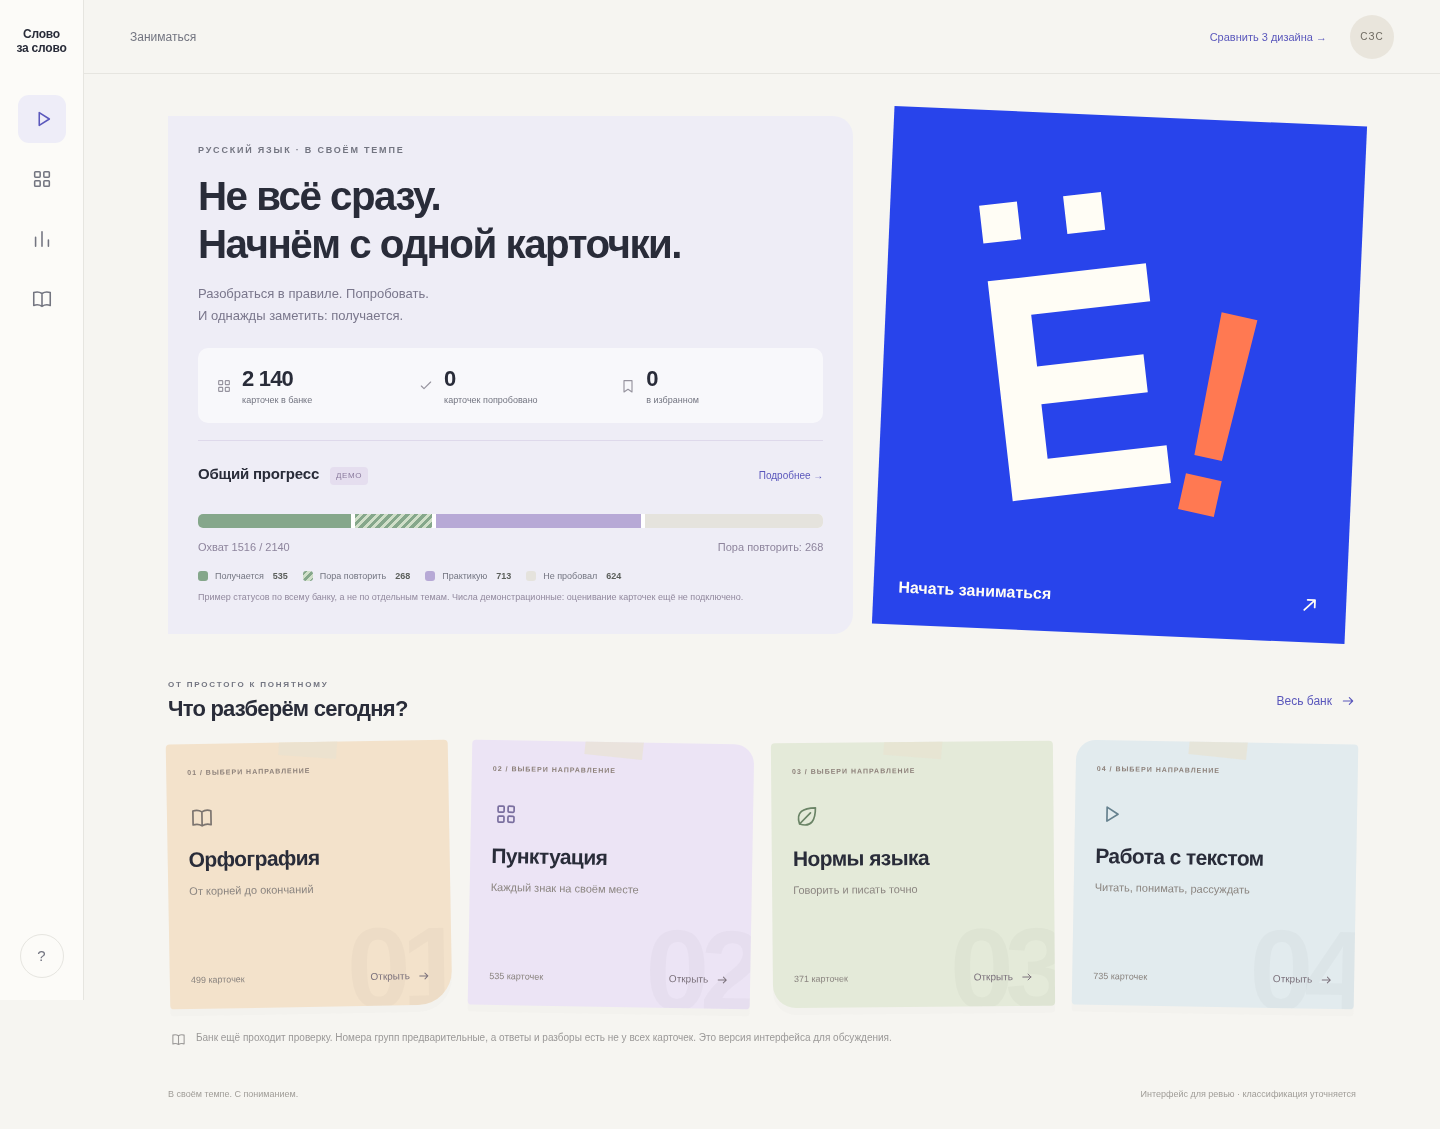
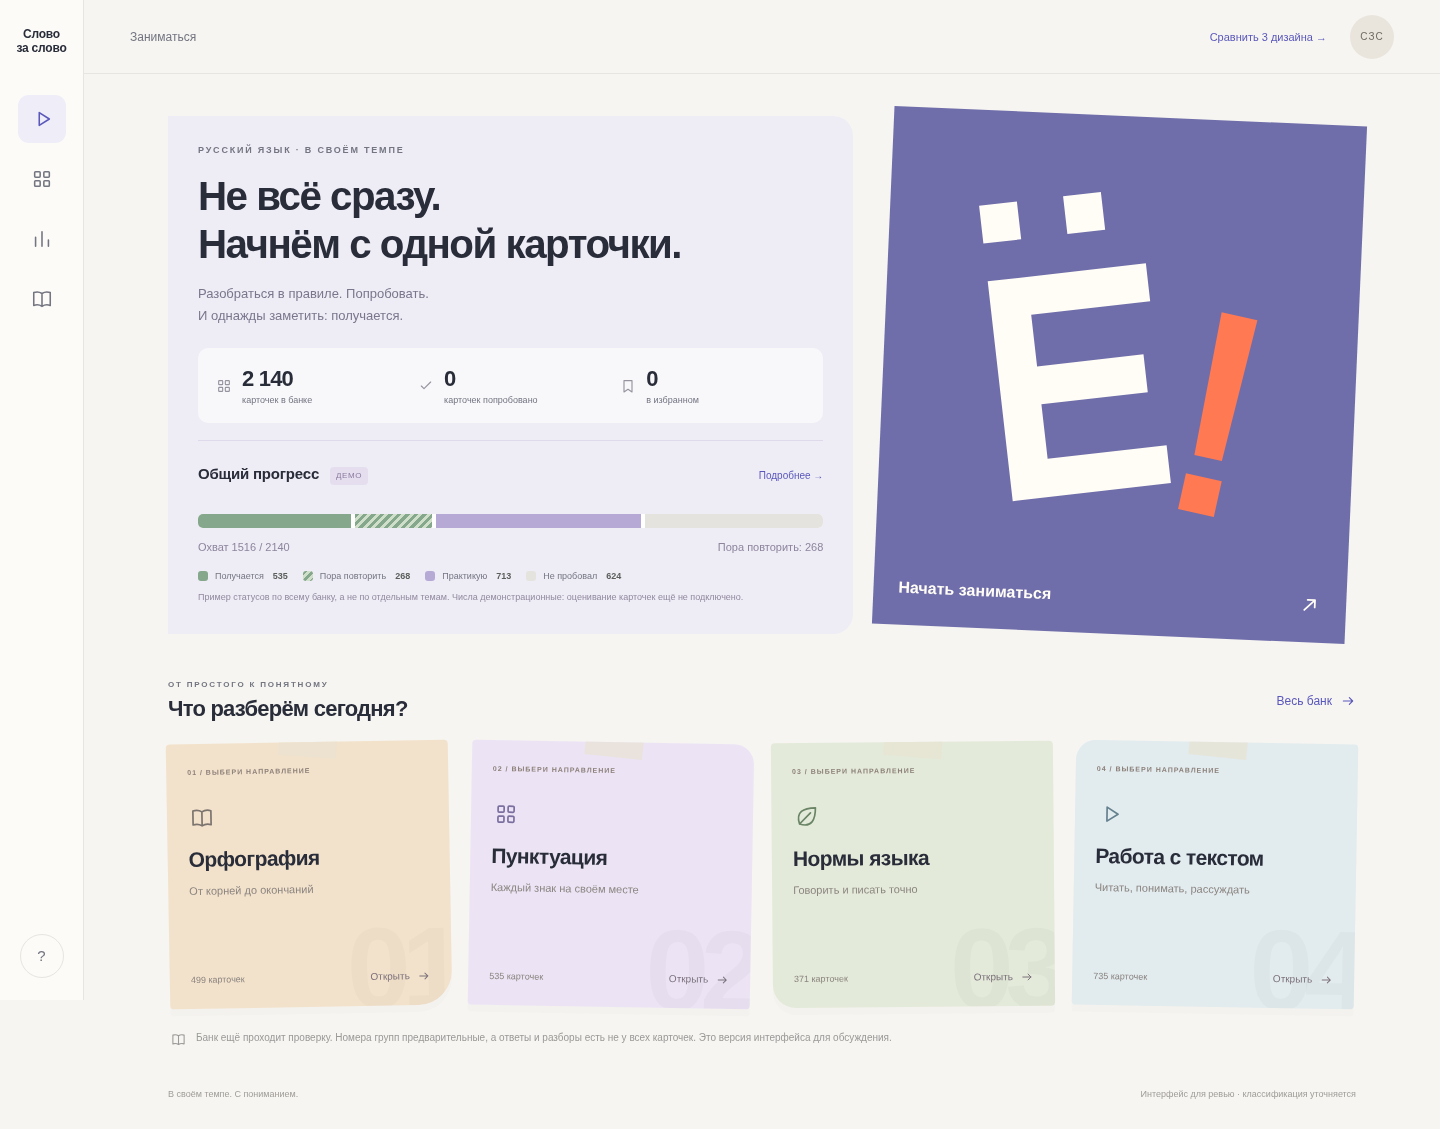
design: soften poster background to muted periwinkle

Changed region(s): [[0.5938, 0.093, 0.9688, 0.589]]

diff --git a/html/css/app.css b/html/css/app.css
@@ -2808,7 +2808,7 @@ dialog form {
 }
 .poster-face {
   position: relative;
-  background: #2844eb;
+  background: #706eaa;
   color: #fffdf5;
   transform: rotate(2.5deg);
   width: 100%;

diff --git a/docs/composed-home.md b/docs/composed-home.md
@@ -7,7 +7,7 @@
 - Светлый фон без сетки.
 - На компьютере — узкая панель четырёх навигационных иконок. У ссылок сохранены доступные названия, подсказки и выделение текущего раздела. На телефоне остаётся нижняя навигация.
 - Верх слева: «Не всё сразу. Начнём с одной карточки», описание, затем реальные счётчики «2 140…» на месте прежней кнопки, ниже общий прогресс-бар по четырём темам. Начало занятия перенесено на синий постер.
-- Верх справа: кобальтовый типографический постер «Ё!» из «Редакции», с переходом в практику. Единственная подпись — «Начать заниматься»; прежние «В этом номере» и «Точка опоры — понимание» убраны.
+- Верх справа: типографический постер с мягким сине-сиреневым фоном (#706eaa) «Ё!» из «Редакции», с переходом в практику. Единственная подпись — «Начать заниматься»; прежние «В этом номере» и «Точка опоры — понимание» убраны.
 - Внизу — четыре тематические карточки. Содержимое и переходы сохранены, оформление взято у notes «Студии»: цвета бумаги, небольшой наклон, скруглённый угол, полупрозрачные номера и детали скотча.
 - Декоративные элементы не являются дополнительными функциями. Указанные числа берутся из каталога и локальных действий.
 - На телефоне: основной призыв, счётчики, компактный постер и сетка тем 2×2.
